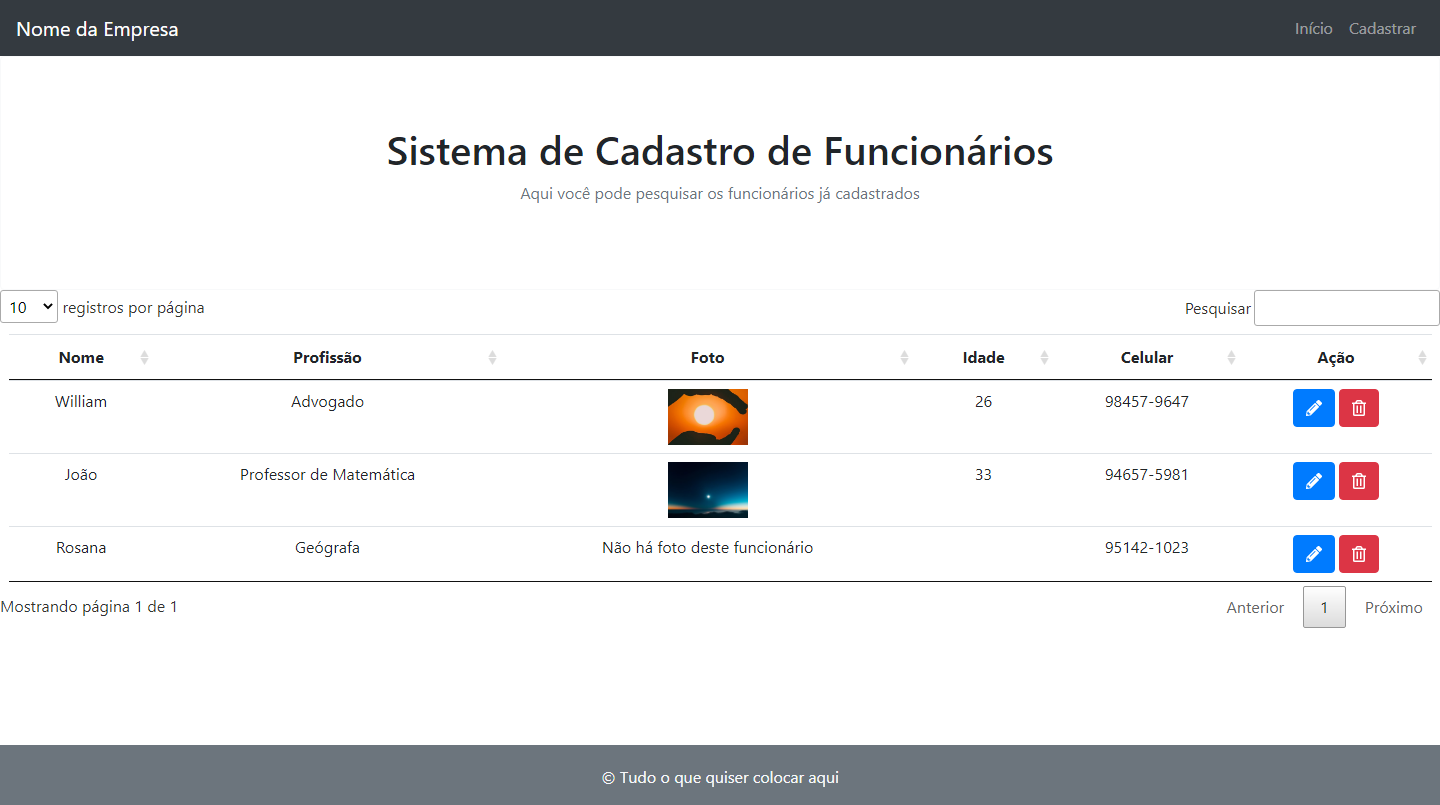
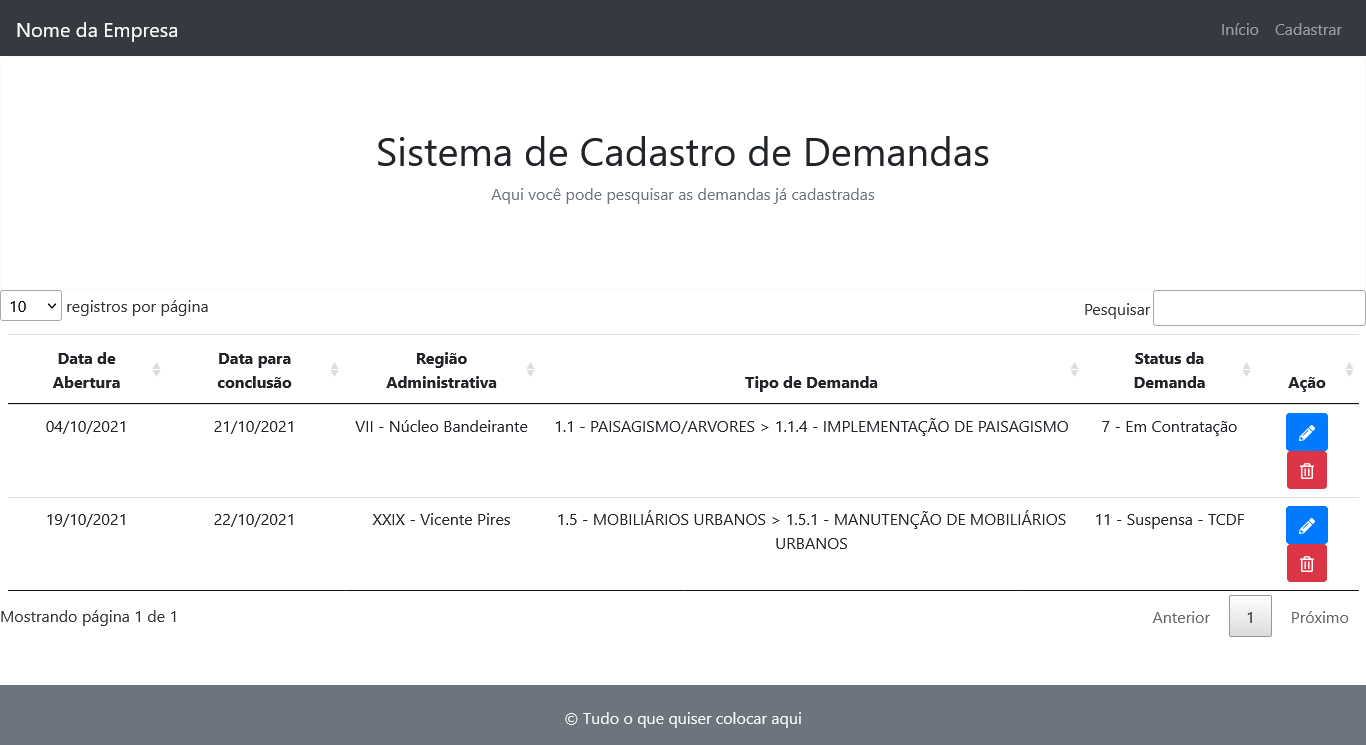
inserindo .env.example, alterando imagem e inserindo dump do banco

diff --git a/resources/views/demanda/cadastrar.blade.php b/resources/views/demanda/cadastrar.blade.php
@@ -1,11 +1,11 @@
 @extends('layout.index')
-@section('titulo', 'Cadastrar Usuario')
+@section('titulo', 'Cadastrar Demanda')
 @section('conteudo')
 
     <div class="card border-light">
         <div class="card-body">
             <section id="titulo">
-                <h1 class="text-center pt-4">Inserir Dados Teste</h1>
+                <h1 class="text-center pt-4">Inserir Dados</h1>
             </section>
         </div>
     </div>

diff --git a/resources/views/home.blade.php b/resources/views/home.blade.php
@@ -1,5 +1,5 @@
 @extends('layout.index')
-@section('titulo', 'Cadastro')
+@section('titulo', 'Cadastro de Demandas')
 @section('conteudo')
     <main>
     <!-- Flash Message -->
